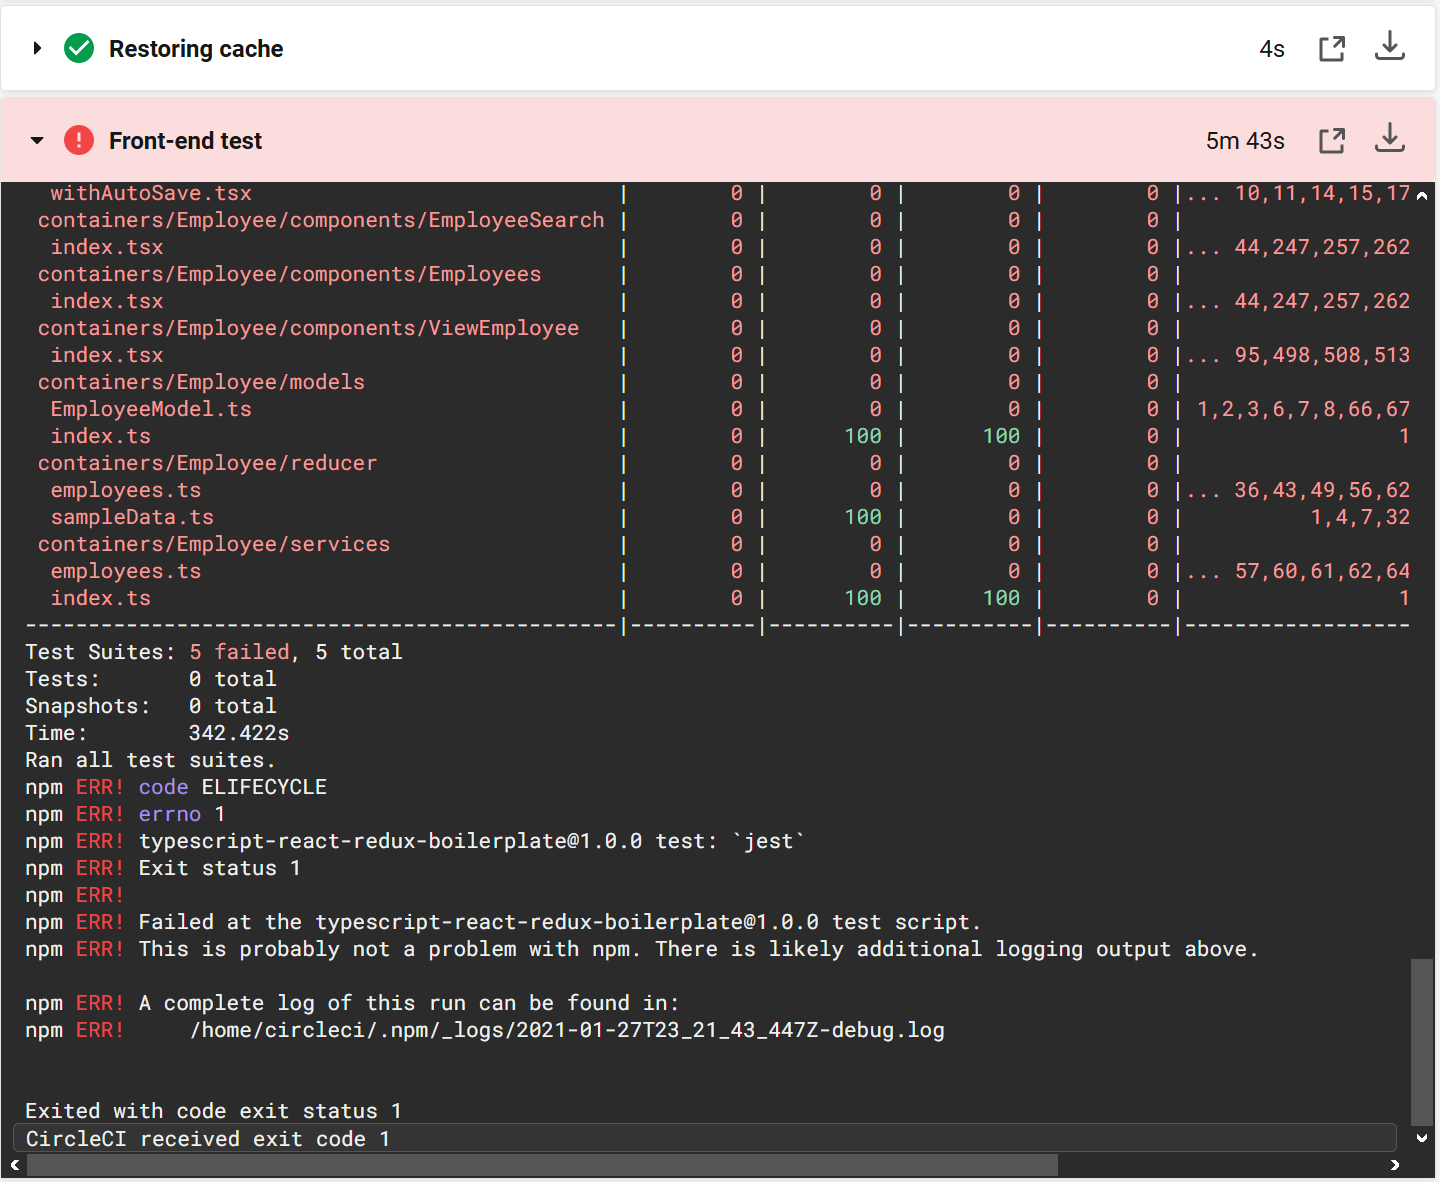
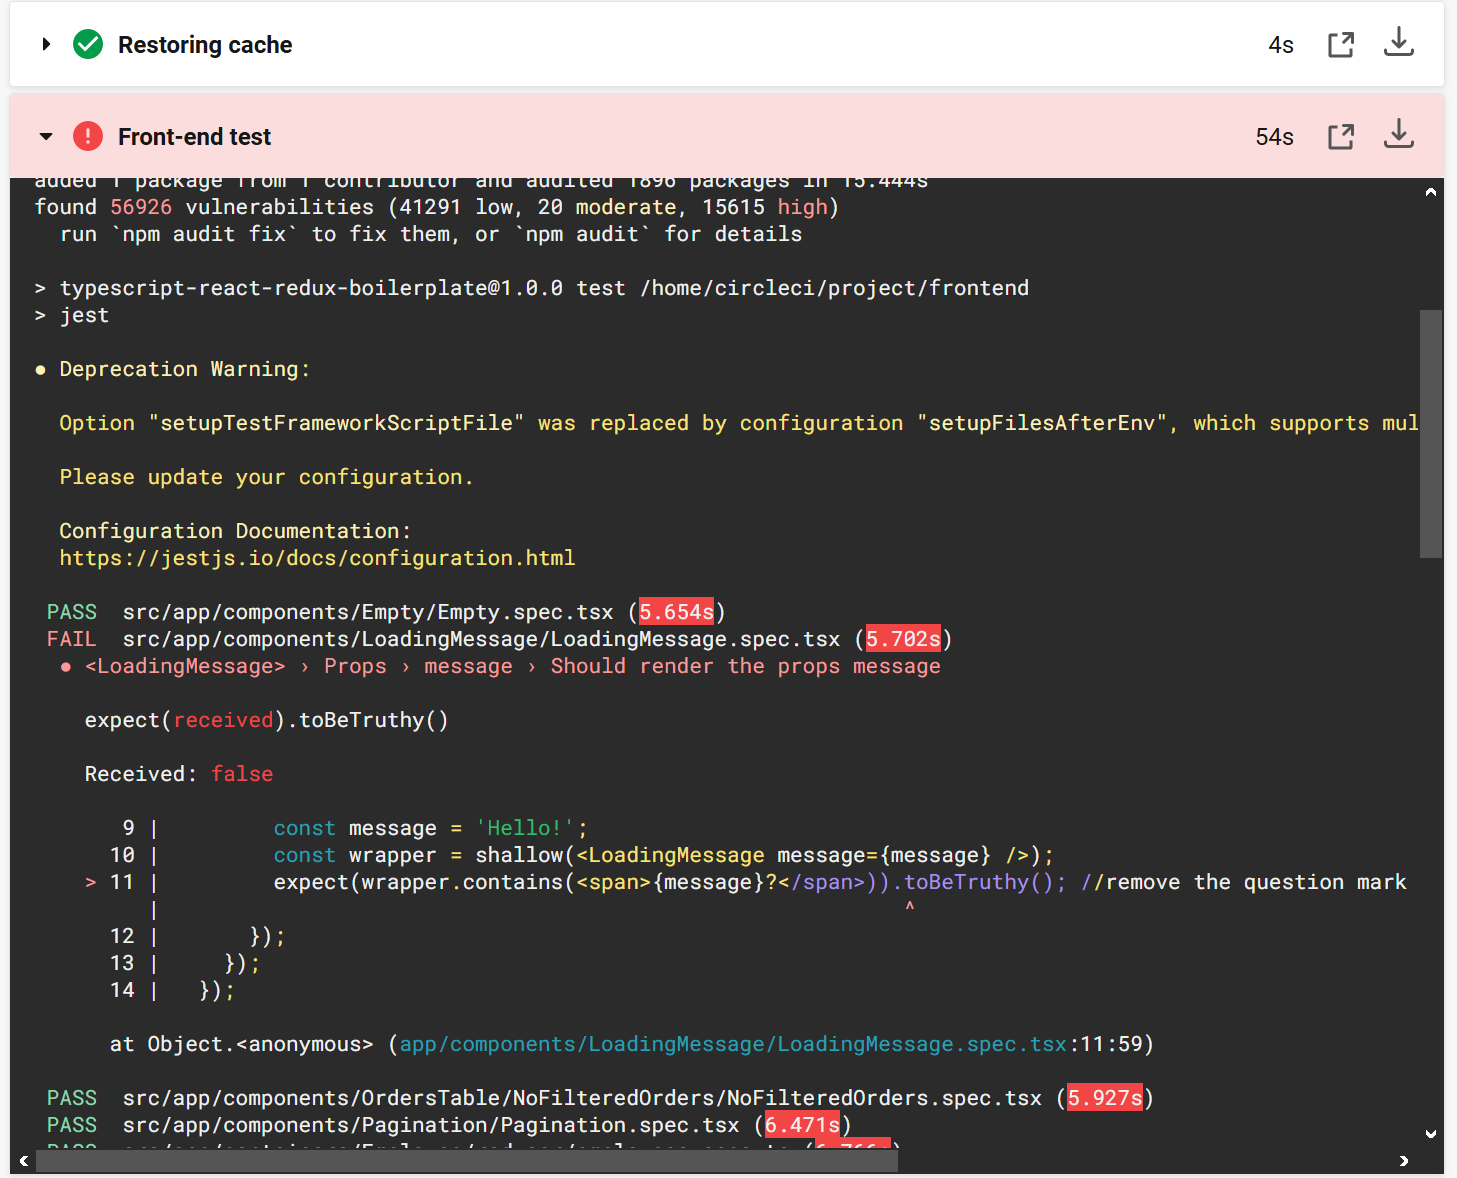
fixed unit test error

diff --git a/frontend/src/app/components/LoadingMessage/LoadingMessage.spec.tsx b/frontend/src/app/components/LoadingMessage/LoadingMessage.spec.tsx
@@ -8,7 +8,8 @@ describe('<LoadingMessage>', () => {
       it('Should render the props message', () => {
         const message = 'Hello!';
         const wrapper = shallow(<LoadingMessage message={message} />);
-        expect(wrapper.contains(<span>{message}?</span>)).toBeTruthy(); //remove the question mark to make the test pass
+        expect(wrapper.contains(<span>{message}</span>)).toBeTruthy(); //fixed unit test
+        //expect(wrapper.contains(<span>{message}?</span>)).toBeTruthy(); //remove the question mark to make the test pass
       });
     });
   });
